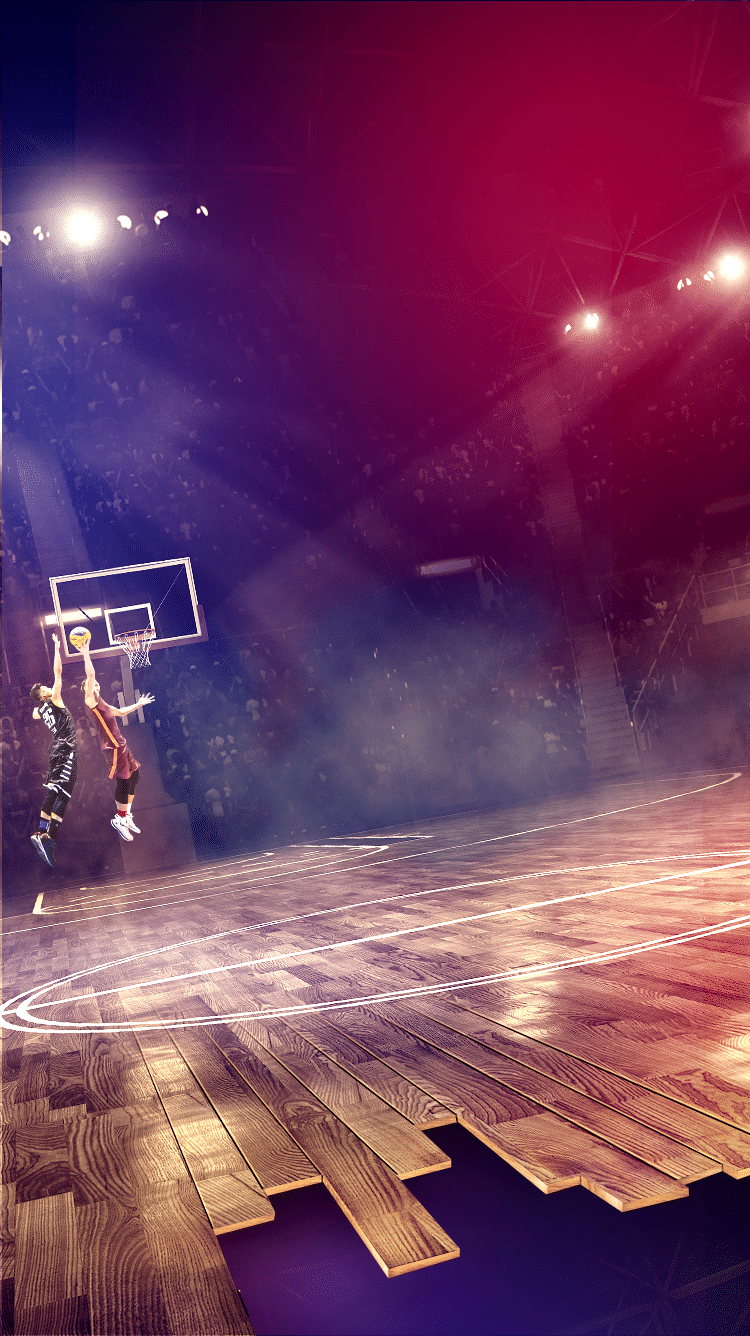
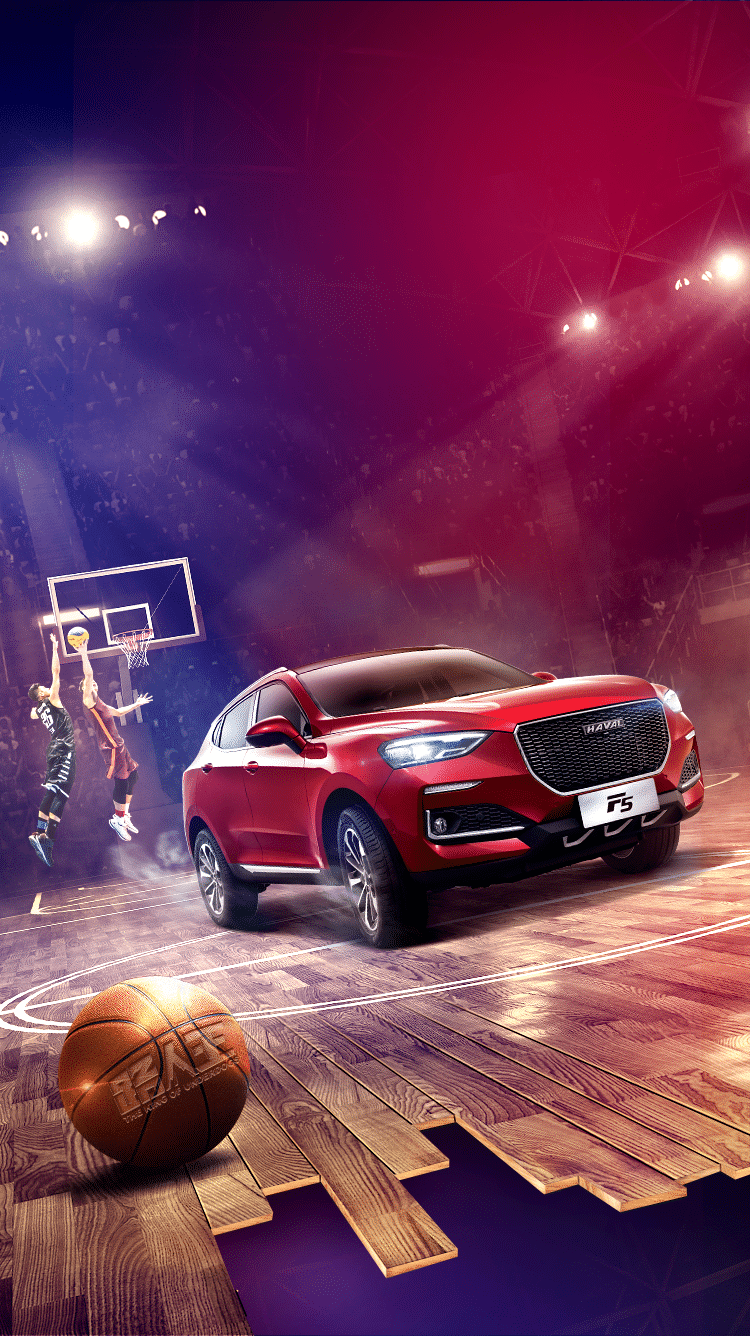
imgs

diff --git a/src/public/components/bg.vue b/src/public/components/bg.vue
@@ -1,6 +1,6 @@
 <template>
-  <div class="bg" :class="{bg1:page==1||page==3}">
-    <img src="../assets/imgs/bgs/car.png" alt="" class="car">
+  <div class="bg" :class="{bg1:page==1,bg3:page==3}">
+    <!-- <img src="../assets/imgs/bgs/car1.png" alt="" class="car"> -->
     <div class="content">
       <slot></slot>
     </div>
@@ -31,12 +31,15 @@ export default {
   .bg{
     height:100%;
     width:100%;
-    background-image: url(../assets/imgs/bgs/bg2.png);
+    background-image: url(../assets/imgs/bgs/bg.png);
     background-size: cover;
-    background-position: left 100%;
+    background-position: center center;
     position: relative;
     &.bg1{
       background-image: url(../assets/imgs/bgs/bg1.png);
+    }
+    &.bg3{
+      background-image: url(../assets/imgs/bgs/bg3.png);
     }
     .content{
       position: absolute;
@@ -48,8 +51,9 @@ export default {
       z-index: 999;
     }
     .car{
-      width: 100%;
+      width: 20rem;
       bottom:10vh;
+      right:1.7rem;
       position: absolute;
     }
   }

diff --git a/src/public/App.vue b/src/public/App.vue
@@ -9,6 +9,7 @@
       <img src="./assets/imgs/logo.png" alt="" class="logo">
       <img src="./assets/imgs/reserve.png" alt="" class="reserve-btn" @click="showModal=true">
     </div>
+    <img src="./assets/imgs/icons/scroll.png" alt="" class="scroll-icon animated flash infinite">
     <form-modal :show.sync="showModal"></form-modal>
     <!-- <div class="reserve-btn" @click="showModal=true"></div> -->
     <!-- <div class="music-btn" @click="toggleBGM"></div> -->
@@ -117,6 +118,15 @@ export default {
       width:6.72rem;
       height:2.48rem;
     }
+  }
+  .scroll-icon{
+    position: fixed;
+    width:2.76rem;
+    z-index: 999;
+    bottom:2.28rem;
+    left:50%;
+    transform: translateX(-50%);
+    animation-duration: 2.5s;
   }
   .rotate-mask{
     width: 100%;

diff --git a/src/public/pages/reserve.vue b/src/public/pages/reserve.vue
@@ -1,19 +1,20 @@
 <template>
-  <div class="reserve-section">
+  <bg :page="3" class="reserve-section">
     <crm-form class="form"></crm-form>
-  </div>
+  </bg>
 </template>
 <script>
 import CrmForm from '../components/crmForm'
+import bg from '../components/bg'
 export default {
   components:{
-    CrmForm
+    CrmForm,
+    bg
   }
 }
 </script>
 <style lang="scss" scoped>
   .reserve-section{
-    background: #ff5f45;
     display: flex;
     flex-direction: column;
     align-items: center;
